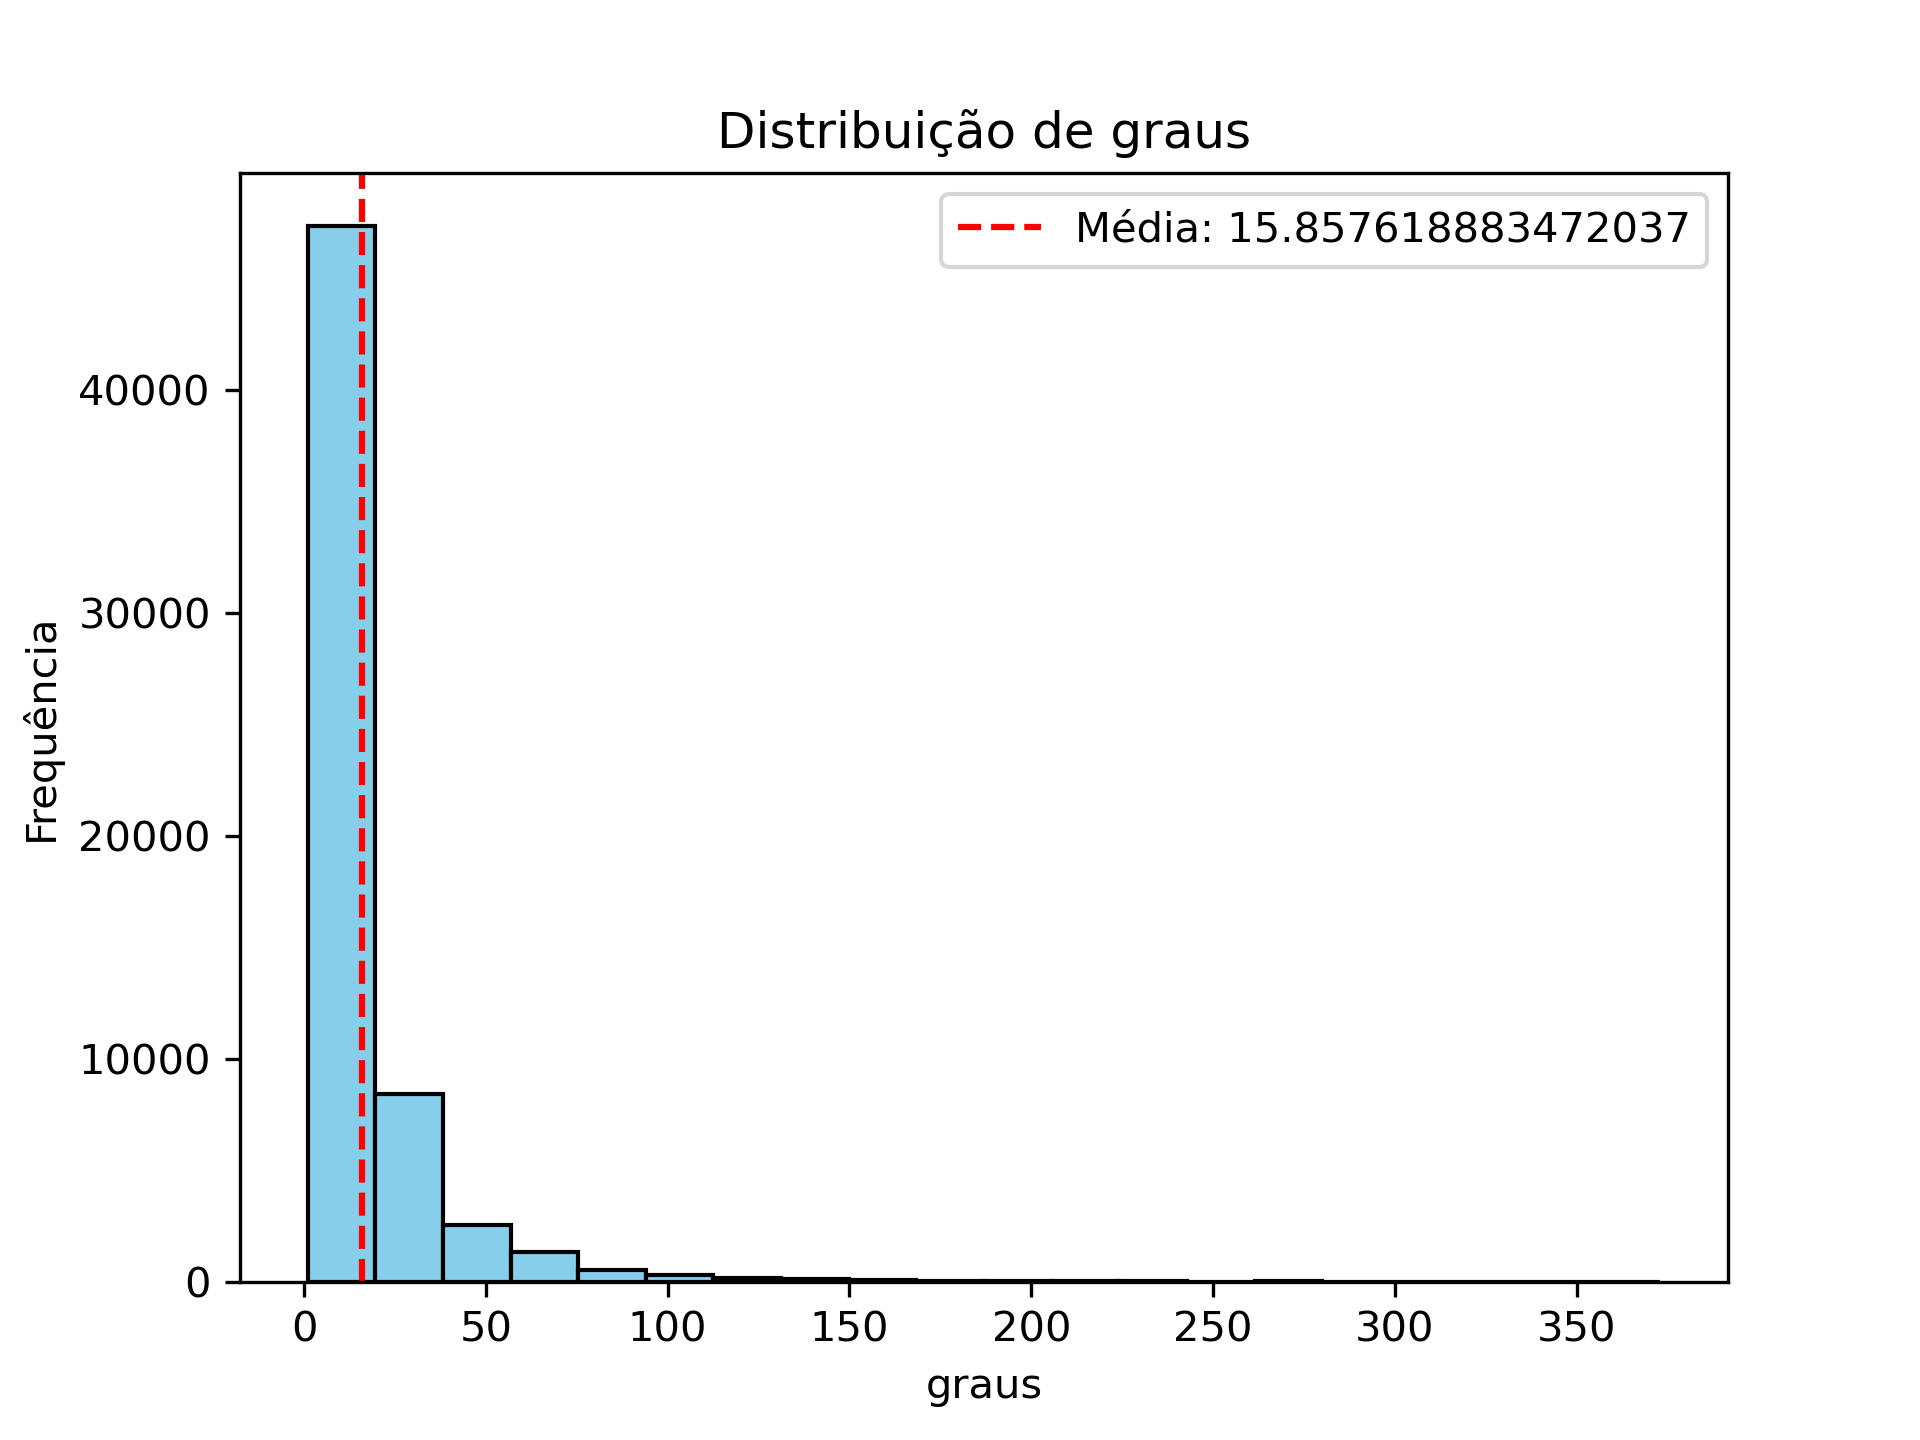
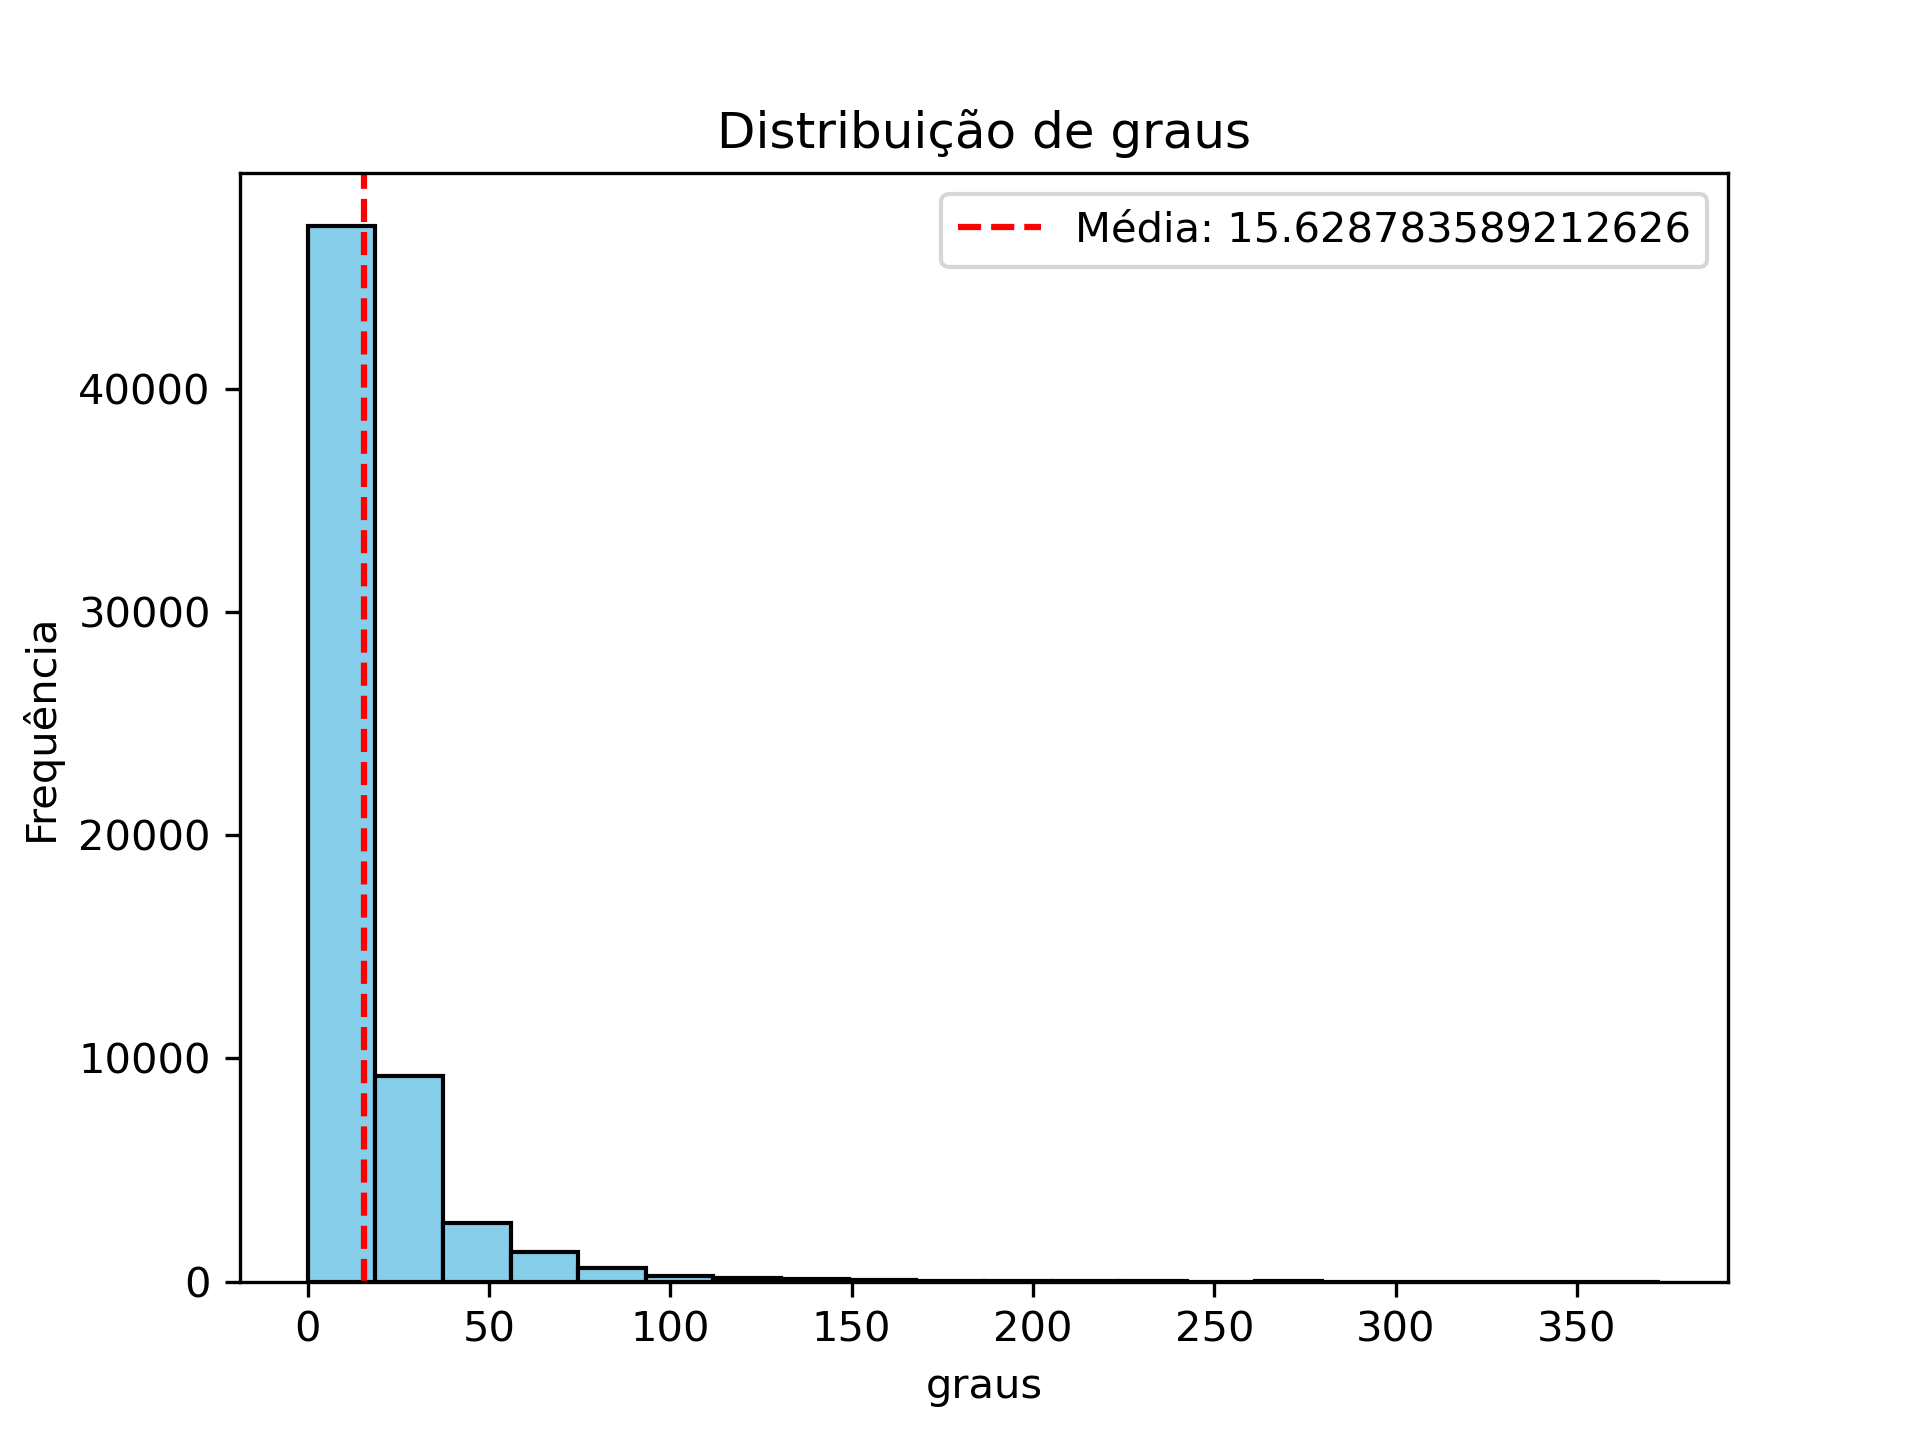
fix: add isolated nodes

diff --git a/tde5/grafo.py b/tde5/grafo.py
@@ -117,6 +117,7 @@ class Grafo(ABC):
         transposed = self.__class__()
         nodes = subset if subset is not None else self.vertices()
         for node in nodes:
+            transposed.adiciona_vertice(node)
             for neighbor in self.neighbors(node):
                 if subset is not None and neighbor not in subset:
                     continue
@@ -200,7 +201,10 @@ class GrafoDirected(Grafo):
         self = cls()
         with NetflixCsvReader(filename) as reader:
             for diretores, atores in reader:
+                for ator in atores:
+                    self.adiciona_vertice(ator)
                 for diretor in diretores:
+                    self.adiciona_vertice(diretor)
                     for ator in atores:
                         self.adiciona_aresta(ator, diretor)
         return self
@@ -242,12 +246,13 @@ class GrafoUndirected(Grafo):
         with NetflixCsvReader(filename) as reader:
             for _, atores in reader:
                 for ator1, ator2 in product(atores, atores):
-                    self.adiciona_aresta(ator1, ator2)
+                    if ator1 == ator2:
+                        self.adiciona_vertice(ator1)
+                    else:
+                        self.adiciona_aresta(ator1, ator2)
         return self
 
     def adiciona_aresta(self, u: str, v: str, peso: int | None = None) -> bool:
-        if u == v:
-            return False
         # nao adicionar arestas duplicadas
         # apenas incrementar peso
         if self.tem_aresta(u, v):
